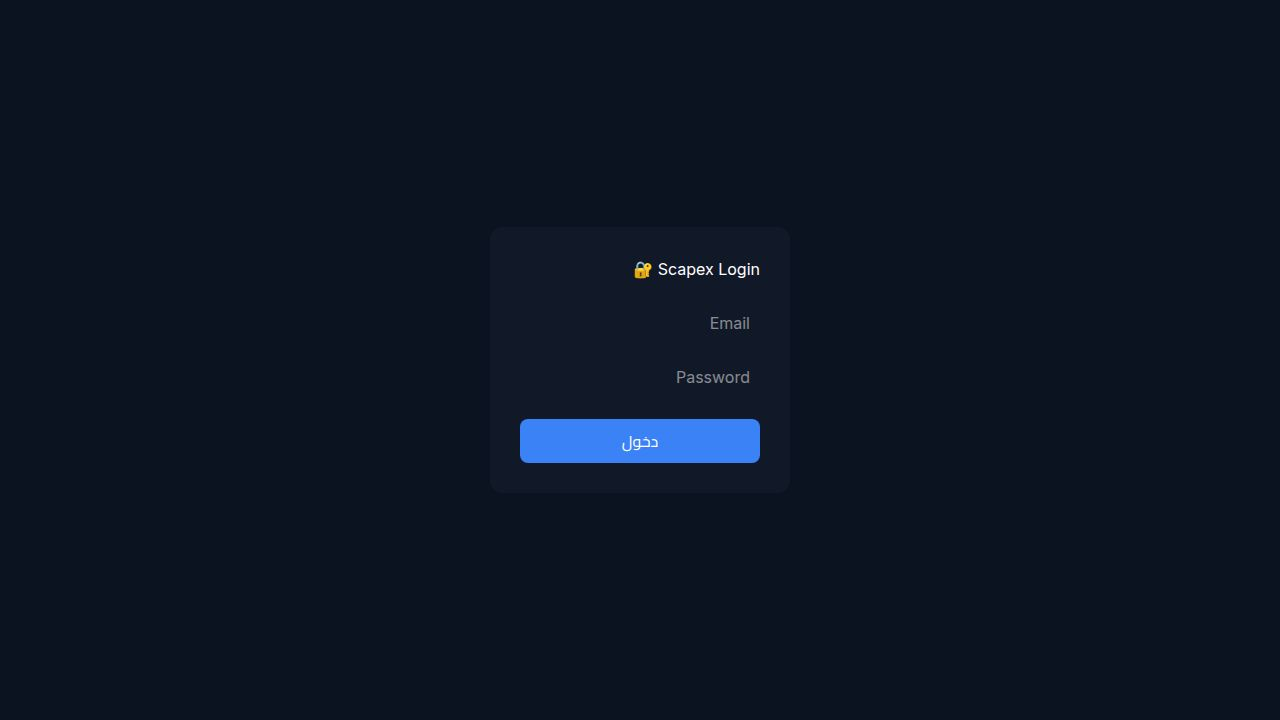
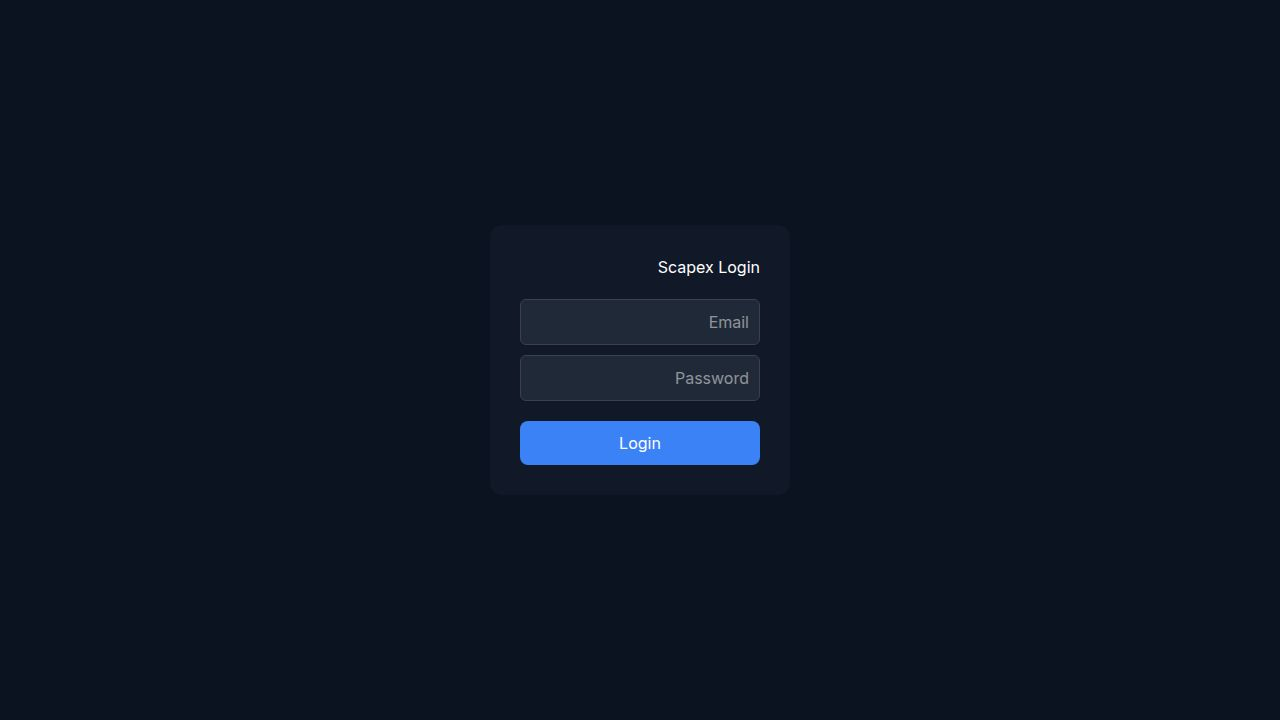
Update login functionality and add user management interface
Refactor the login page to use client-side local storage for authentication and implement a new user management interface in the Users page.

Replit-Commit-Author: Agent
Replit-Commit-Session-Id: 0c8d5782-ce18-47f4-b6a6-e3fef6548bb7
Replit-Commit-Checkpoint-Type: full_checkpoint
Replit-Commit-Event-Id: 11efb2b8-5713-4c1e-98e6-8bce15e7c894
Replit-Commit-Screenshot-Url: https://storage.googleapis.com/screenshot-production-us-central1/b3b2ec53-f3bf-49ea-b268-d389ceb6e37c/0c8d5782-ce18-47f4-b6a6-e3fef6548bb7/pgb53uz
Replit-Helium-Checkpoint-Created: true

diff --git a/client/src/pages/Login.tsx b/client/src/pages/Login.tsx
@@ -4,21 +4,25 @@ export default function Login() {
   const [email, setEmail] = useState("");
   const [password, setPassword] = useState("");
 
-  const handleLogin = async () => {
-    const res = await fetch("/login", {
-      method: "POST",
-      headers: {
-        "Content-Type": "application/json",
-      },
-      body: JSON.stringify({ email, password }),
-    });
+  const handleLogin = () => {
+    const users = JSON.parse(localStorage.getItem("users") || "[]");
 
-    if (res.ok) {
-      const data = await res.json();
-      localStorage.setItem("token", data.token);
-      window.location.href = "/";
+    const user = users.find(
+      (u: { email: string; password: string }) => u.email === email && u.password === password
+    );
+
+    if (user) {
+      localStorage.setItem("user", JSON.stringify(user));
+      window.location.href = "/dashboard";
     } else {
-      alert("بيانات الدخول غلط ❌");
+      if (email && password) {
+        const newUser = { email, password, name: email.split("@")[0] };
+        localStorage.setItem("users", JSON.stringify([...users, newUser]));
+        localStorage.setItem("user", JSON.stringify(newUser));
+        window.location.href = "/dashboard";
+      } else {
+        alert("Please enter email and password");
+      }
     }
   };
 
@@ -37,32 +41,35 @@ export default function Login() {
         width: "300px",
         color: "white"
       }}>
-        <h2 style={{marginBottom:20}}>Scapex Login 🔐</h2>
+        <h2 style={{marginBottom:20}}>Scapex Login</h2>
 
         <input
+          data-testid="input-email"
           placeholder="Email"
           value={email}
           onChange={(e) => setEmail(e.target.value)}
-          style={{width:"100%", marginBottom:10, padding:10}}
+          style={{width:"100%", marginBottom:10, padding:10, borderRadius:"6px", border:"1px solid #374151", background:"#1f2937", color:"white"}}
         />
 
         <input
+          data-testid="input-password"
           type="password"
           placeholder="Password"
           value={password}
           onChange={(e) => setPassword(e.target.value)}
-          style={{width:"100%", marginBottom:20, padding:10}}
+          style={{width:"100%", marginBottom:20, padding:10, borderRadius:"6px", border:"1px solid #374151", background:"#1f2937", color:"white"}}
         />
 
-        <button onClick={handleLogin} style={{
+        <button data-testid="button-login" onClick={handleLogin} style={{
           width:"100%",
           padding:10,
           background:"#3b82f6",
           color:"white",
           border:"none",
-          borderRadius:"8px"
+          borderRadius:"8px",
+          cursor:"pointer"
         }}>
-          دخول
+          Login
         </button>
       </div>
     </div>

diff --git a/client/src/pages/Users.tsx b/client/src/pages/Users.tsx
@@ -1,0 +1,57 @@
+import { useState } from "react";
+
+export default function Users() {
+  const [users, setUsers] = useState(
+    JSON.parse(localStorage.getItem("users") || "[]"),
+  );
+
+  const [email, setEmail] = useState("");
+  const [password, setPassword] = useState("");
+  const [role, setRole] = useState("client");
+
+  const addUser = () => {
+    const newUsers = [...users, { email, password, role }];
+
+    setUsers(newUsers);
+    localStorage.setItem("users", JSON.stringify(newUsers));
+
+    setEmail("");
+    setPassword("");
+  };
+
+  return (
+    <div style={{ padding: 30 }}>
+      <h2>إدارة المستخدمين</h2>
+
+      <input
+        placeholder="Email"
+        value={email}
+        onChange={(e) => setEmail(e.target.value)}
+      />
+
+      <input
+        type="password"
+        placeholder="Password"
+        value={password}
+        onChange={(e) => setPassword(e.target.value)}
+      />
+
+      <select value={role} onChange={(e) => setRole(e.target.value)}>
+        <option value="admin">Admin</option>
+        <option value="accountant">محاسب</option>
+        <option value="engineer">مهندس</option>
+        <option value="client">عميل</option>
+      </select>
+
+      <button onClick={addUser}>إضافة</button>
+
+      <hr />
+
+      {users.map((u: any, i: number) => (
+        <div key={i}>
+          {u.email} - {u.role}
+        </div>
+      ))}
+    </div>
+  );
+}
